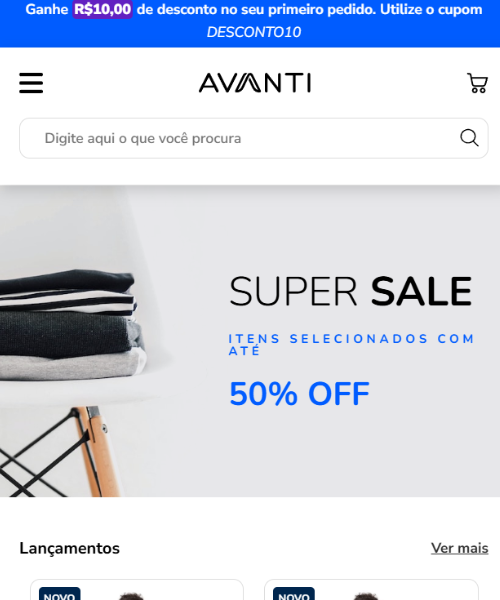
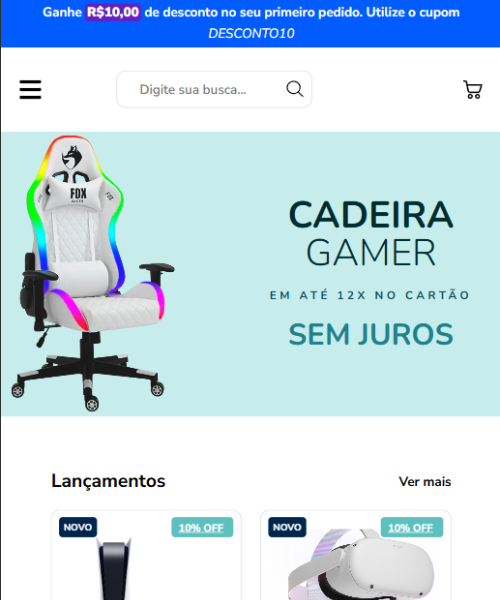
add project

diff --git a/src/pages/Projects/ProjectsData.js b/src/pages/Projects/ProjectsData.js
@@ -56,17 +56,22 @@ export const projectsData = [
   {
     id: 4,
     stack: [
-      { name: "HTML", icon: "/html.png" },
+      { name: "React", icon: "/react.png" },
+      { name: "Vite", icon: "/vite.png" },
       { name: "Javascript", icon: "/javascript.svg" },
+      { name: "Typescript", icon: "/typescript.svg" },
       { name: "Css", icon: "/css.png" },
       { name: "Swiper Js", icon: "/swiperjs.svg" },
+      { name: "PostgreSQL", icon: "/postgresql.svg" },
+      { name: "Express", icon: "/express.svg" },
+      { name: "Mercado Pago", icon: "/mercado_pago.png" },
     ],
-    name: "Projeto Avanti",
-    github: "https://github.com/enzovalencuela/Projeto-Avanti",
-    deploy: "https://enzovalencuela-projeto-avanti.netlify.app",
+    name: "E-Commerce gamer",
+    github: "https://github.com/enzovalencuela/pagamento-plataforma",
+    deploy: "https://pagamento-plataforma.vercel.app/login",
     img: "/4.png",
     description:
-      "Este projeto é uma página web de uma loja de roupas chamada AVANTI, criada com o objetivo de apresentar produtos de forma moderna, interativa e responsiva.",
+      "Este é um projeto de um e-commerce para o público gamer. A aplicação oferece um sistema de compras, login e cadastro, permitindo aos usuários criar e gerenciar suas contas.",
   },
   {
     id: 5,

diff --git a/src/pages/Projects/Projects.jsx b/src/pages/Projects/Projects.jsx
@@ -2,7 +2,6 @@ import React from "react";
 import { projectsData } from "./ProjectsData";
 import ProjectCard from "../../components/ProjectCard";
 import "./Projects.css";
-import { Swiper, SwiperSlide } from "swiper/react";
 
 function Projects() {
   const projectsToShow = projectsData.slice(0, 4);
